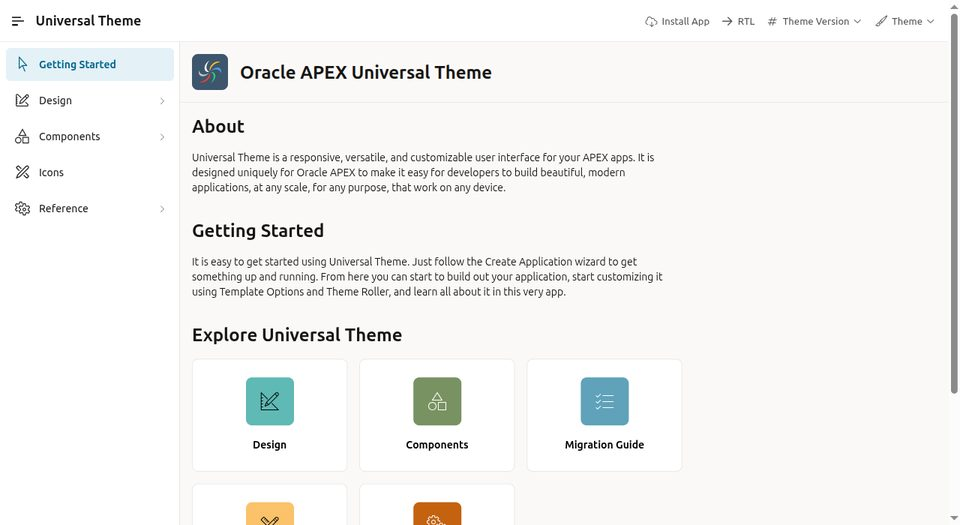
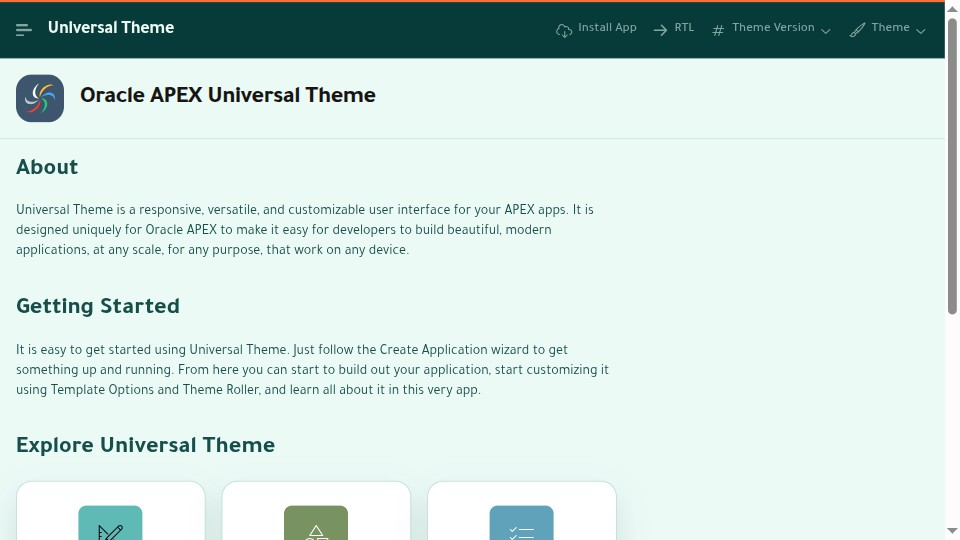
fix(themes): add final covers and AA-safe citrus links

diff --git a/applications/ut/shared-components/static-files/css/themes/citrus-pop/tokens.css b/applications/ut/shared-components/static-files/css/themes/citrus-pop/tokens.css
@@ -15,6 +15,7 @@ html.app-theme-citrus-pop {
 
     --cit-amber: #007F78;
     --cit-amber-hover: #00635E;
+    --cit-teal-text: #00645F;
     --cit-amber-shade: rgba(0, 127, 120, .11);
     --cit-amber-glow: rgba(0, 127, 120, .24);
 
@@ -104,13 +105,13 @@ html.app-theme-citrus-pop {
     --ut-border-radius-lg: var(--app-radius-lg);
 
     --ut-focus-outline-color: var(--app-color-primary);
-    --ut-link-text-color: var(--app-color-primary);
+    --ut-link-text-color: var(--cit-teal-text);
 
     --ut-palette-primary: var(--app-color-primary);
     --ut-palette-primary-contrast: var(--app-text-on-accent);
     --ut-palette-primary-shade: var(--app-accent-shade);
     --ut-palette-primary-alt: var(--cit-amber);
-    --ut-palette-primary-text: var(--app-color-primary);
+    --ut-palette-primary-text: var(--cit-teal-text);
 
     --ut-palette-success: var(--app-color-success);
     --ut-palette-success-contrast: var(--app-text-on-accent);

diff --git a/sample-themes/citrus-pop/css/tokens.css b/sample-themes/citrus-pop/css/tokens.css
@@ -15,6 +15,7 @@ html.app-theme-citrus-pop {
 
     --cit-amber: #007F78;
     --cit-amber-hover: #00635E;
+    --cit-teal-text: #00645F;
     --cit-amber-shade: rgba(0, 127, 120, .11);
     --cit-amber-glow: rgba(0, 127, 120, .24);
 
@@ -104,13 +105,13 @@ html.app-theme-citrus-pop {
     --ut-border-radius-lg: var(--app-radius-lg);
 
     --ut-focus-outline-color: var(--app-color-primary);
-    --ut-link-text-color: var(--app-color-primary);
+    --ut-link-text-color: var(--cit-teal-text);
 
     --ut-palette-primary: var(--app-color-primary);
     --ut-palette-primary-contrast: var(--app-text-on-accent);
     --ut-palette-primary-shade: var(--app-accent-shade);
     --ut-palette-primary-alt: var(--cit-amber);
-    --ut-palette-primary-text: var(--app-color-primary);
+    --ut-palette-primary-text: var(--cit-teal-text);
 
     --ut-palette-success: var(--app-color-success);
     --ut-palette-success-contrast: var(--app-text-on-accent);
